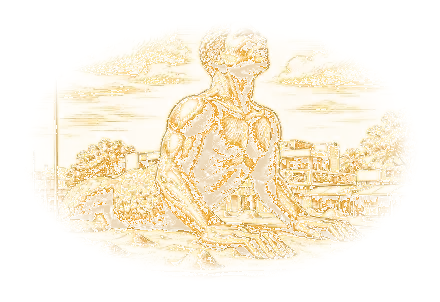
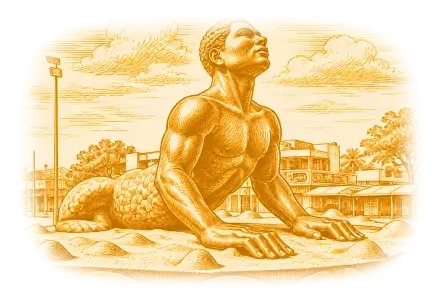
style(historia): restaurar color dorado ambar vibrante y contraste calido original de las ilustraciones con difuminado suave sin marcos

diff --git a/src/app/pages/historia/historia.css b/src/app/pages/historia/historia.css
@@ -198,7 +198,7 @@
   display: block;
   mix-blend-mode: multiply;
   transition: transform 0.4s ease;
-  filter: contrast(1.05);
+  filter: contrast(1.05) saturate(1.12);
 }
 
 .featured-card-frame:hover .featured-card-img {
@@ -325,7 +325,7 @@
   border-radius: 0;
   mix-blend-mode: multiply;
   transition: transform 0.32s cubic-bezier(0.2, 0.9, 0.3, 1), filter 0.32s ease, opacity 0.25s ease;
-  filter: contrast(1.04);
+  filter: contrast(1.05) saturate(1.12);
 }
 
 .gallery-item-card:hover .gallery-thumb-img {
